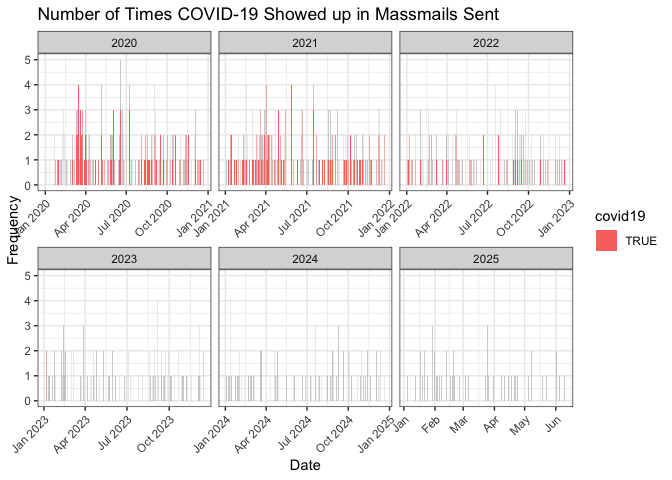
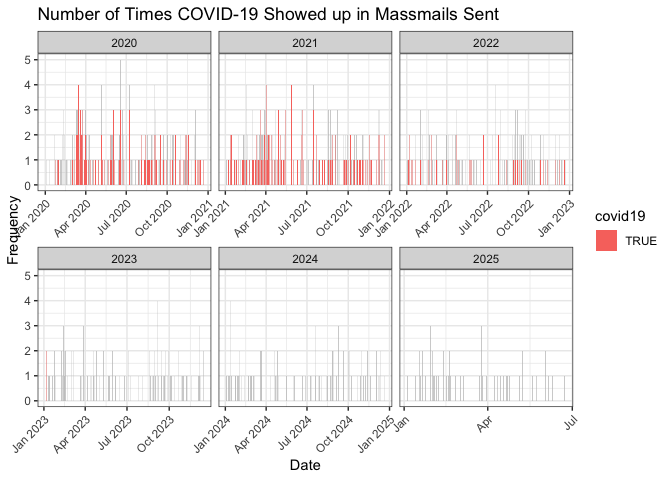
Re-build README.Rmd and Graphs

Changed region(s): [[0.5938, 0.7188, 0.8438, 0.9062], [0.8125, 0.875, 0.875, 0.9062]]

diff --git a/README.md b/README.md
@@ -17,7 +17,7 @@ The archive may be viewed here:
 
 <https://massmail.illinois.edu/massmailArchive>
 
-Data has **1875** observations and **7** variables:
+Data has **1876** observations and **7** variables:
 
 - `datetime`: Date and time when the email was sent in the form of
   `YYYY-MM-DD HMS` with either CDT or CST.
@@ -210,16 +210,16 @@ head(most_popular_words, 10) %>%
 
 | word        | freq |
 |:------------|-----:|
-| university  | 2451 |
-| students    | 2023 |
-| campus      | 1777 |
-| illinois    | 1668 |
+| university  | 2454 |
+| students    | 2024 |
+| campus      | 1785 |
+| illinois    | 1669 |
 | student     | 1232 |
-| faculty     | 1147 |
+| faculty     | 1148 |
 | health      | 1088 |
-| community   | 1076 |
+| community   | 1077 |
 | covid       | 1070 |
-| information | 1008 |
+| information | 1009 |
 
 #### Wordcloud
 
